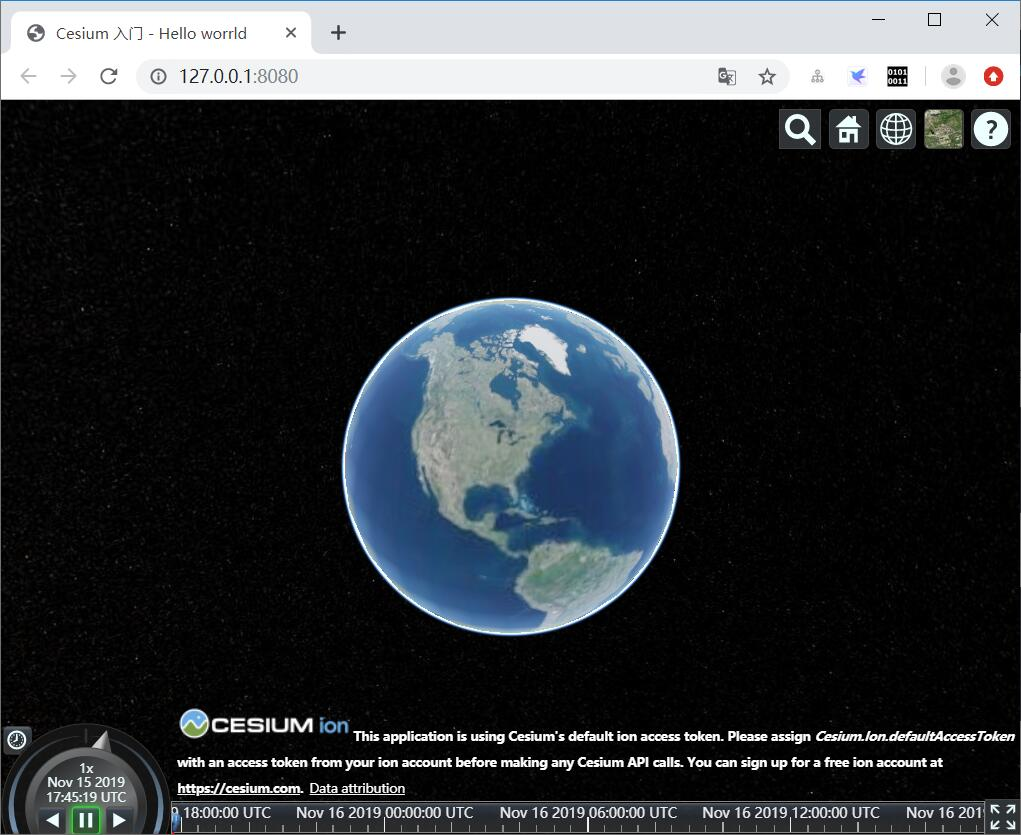
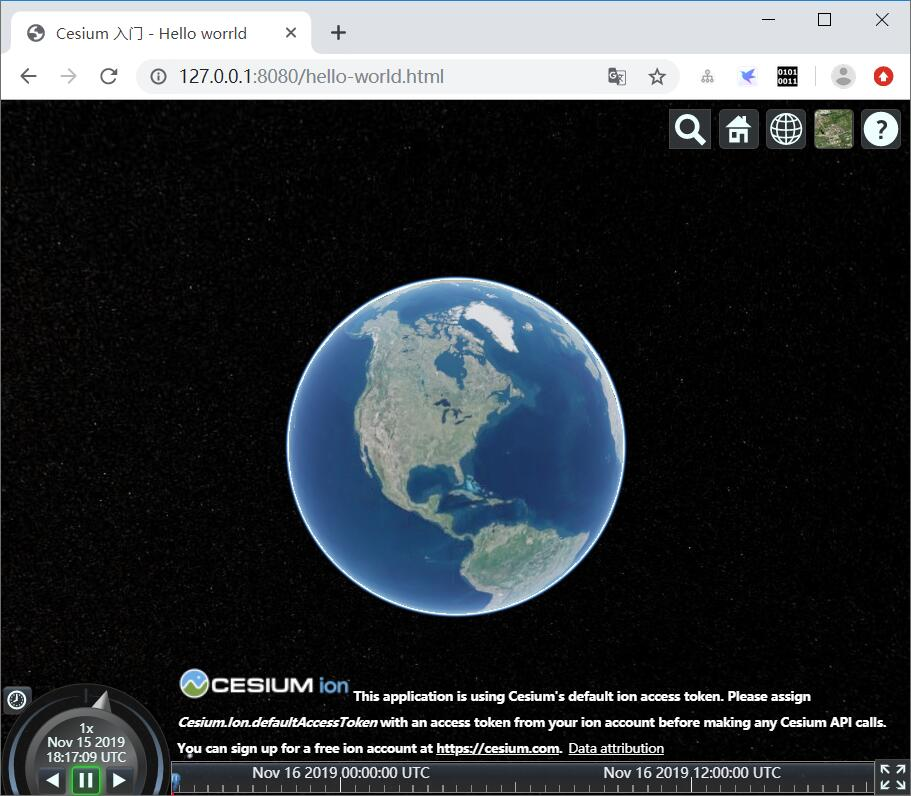
deploy master

diff --git a/source/zh/guide/README.md b/source/zh/guide/README.md
@@ -1,4 +1,4 @@
-# 简介及
+# 简介及环境配置
 
 ::: tip Cesium是什么？
 Cesium ['siːzɪəm]是JavaScript开源库，通过Cesium，实现无插件的创建三维球和二维地图。它是通过WebGL技术实现图形的硬件加速，并且跨平台，跨浏览器，并提供动态数据的可视化展现。

diff --git a/source/zh/guide/hello-world.md b/source/zh/guide/hello-world.md
@@ -4,7 +4,7 @@
 
 现在我们实现第一个cesium应用-Hello world。
 
-新建一个`index.html`:
+新建一个`hello-world.html`:
 
 ``` html
 <!DOCTYPE html>
